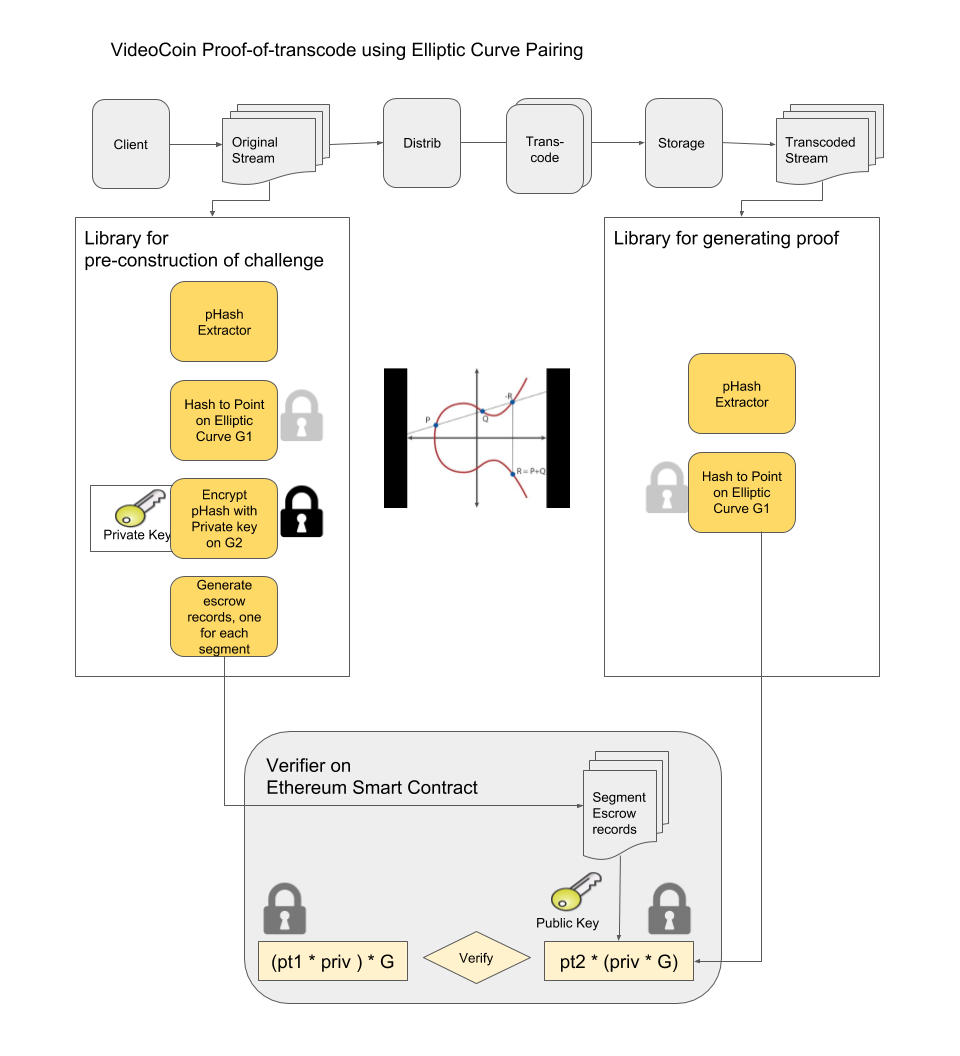
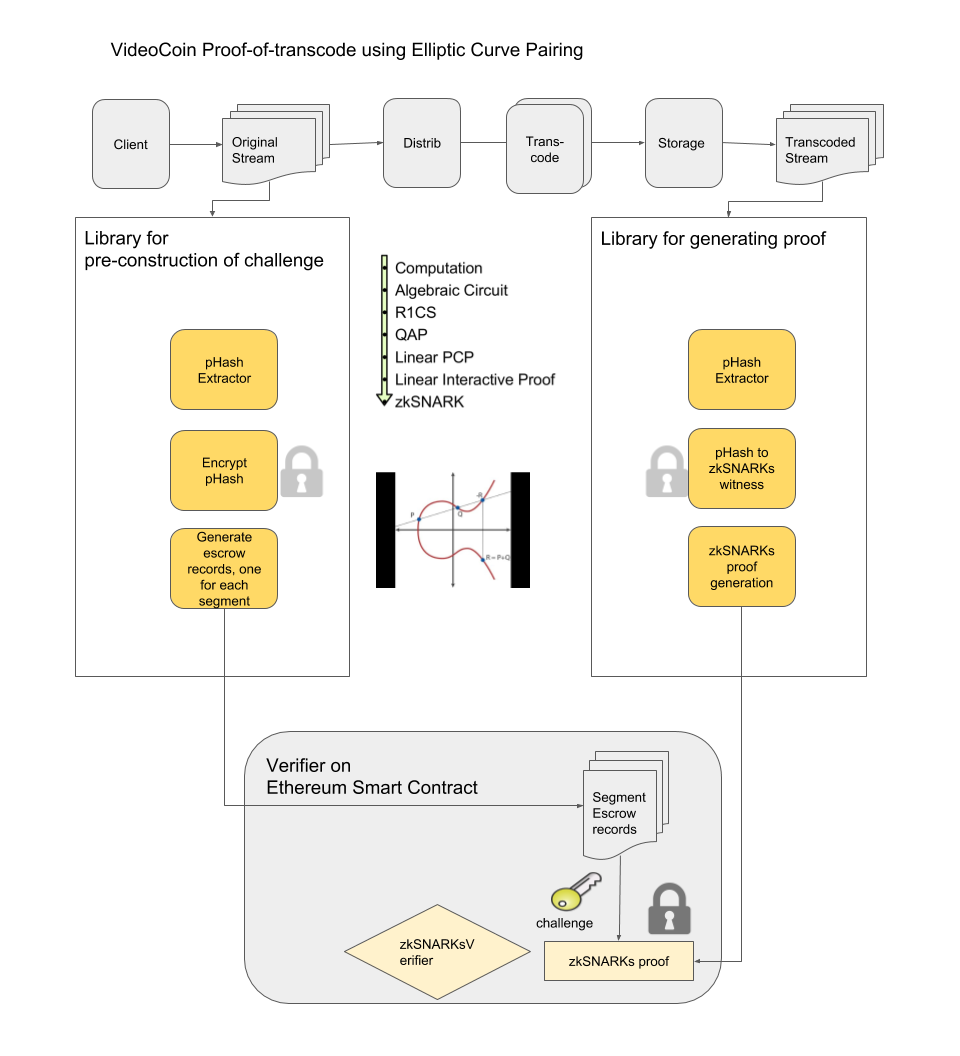
Document updated to show usage of zkSNARKs

diff --git a/src/contract/migrations/3_deploy_verify.js b/src/contract/migrations/3_deploy_verify.js
@@ -1,0 +1,7 @@
+var Pairing = artifacts.require("./ZkTransVerify.sol");
+var ZkTransVerify = artifacts.require("./ZkTransVerify.sol");
+module.exports = function(deployer) {
+  deployer.deploy(Pairing);
+  deployer.link(Pairing, ZkTransVerify);
+  deployer.deploy(ZkTransVerify);
+};
